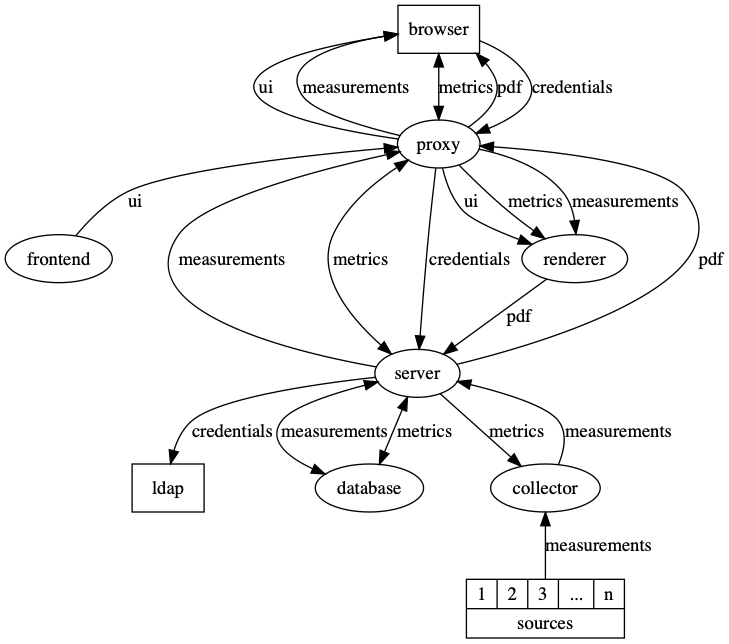
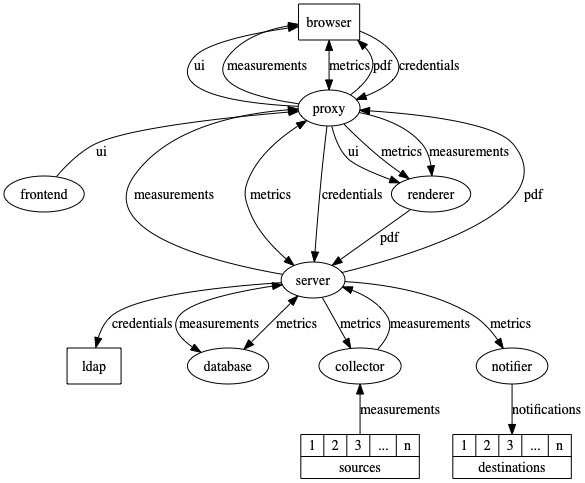
Add notifier to DEVELOP.md.

Changed region(s): [[0.0923, 0.0, 1.0, 0.9938], [0.0, 0.3416, 0.1538, 0.4658], [0.1231, 0.2795, 0.2154, 0.3416]]

diff --git a/docs/DEVELOP.md b/docs/DEVELOP.md
@@ -12,7 +12,11 @@
 
 ### Running *Quality-time* locally
 
-Follow these instructions to run the software in hot-reload mode for easy development. Prerequisites are Python 3.8 and a recent version of Node.js (we test with the Long Term Support version of Node).
+Follow these instructions to run the software in hot-reload mode for easy development. 
+
+#### Install prerequisites
+
+Prerequisites are Docker, Git, Python 3.8, a recent version of Node.js (we test with the Long Term Support version of Node).
 
 Clone this repository:
 
@@ -20,7 +24,9 @@ Clone this repository:
 git clone git@github.com:ICTU/quality-time.git
 ```
 
-Open four terminals. In the first one, run the standard containers with docker-compose:
+#### Start standard components
+
+Open a terminal and start the standard containers with docker-compose:
 
 ```console
 docker-compose up database ldap phpldapadmin mongo-express testdata
@@ -30,7 +36,15 @@ Mongo-express is served at [http://localhost:8081](http://localhost:8081) and ca
 
 PHP-LDAP-admin is served at [http://localhost:3890](http://localhost:3890) and can be used to inspect and edit the LDAP database. Click login, check the "Anonymous" box and click "Authenticate" to login.
 
-In the second terminal, run the server:
+By default, there are three users defined in the LDAP database:
+
+- User `admin` has password `admin`.
+- User `Jane Doe` has user id `jadoe` and password `secret`.
+- User `John Doe` has user id `jodoe` and password `secret`.
+
+#### Start the server
+
+Open another terminal and run the server:
 
 ```console
 cd components/server
@@ -40,7 +54,11 @@ pip install -r requirements.txt -r requirements-dev.txt
 python src/quality_time_server.py
 ```
 
-In the third terminal, run the collector:
+The API of the server is served at [http://localhost:5001](http://localhost:5001), e.g. access [http://localhost:5001/api/v3/reports](http://localhost:5001/api/v3/reports) to get the available reports combined with their recent measurements.
+
+#### Start the collector
+
+Open another terminal and run the collector:
 
 ```console
 cd components/collector
@@ -50,7 +68,9 @@ pip install -r requirements.txt -r requirements-dev.txt
 python src/quality_time_collector.py
 ```
 
-In the fourth terminal, run the frontend:
+#### Start the frontend
+
+Open another terminal and run the frontend:
 
 ```console
 cd components/frontend
@@ -60,11 +80,17 @@ npm run start
 
 The frontend is served at [http://localhost:3000](http://localhost:3000).
 
-By default, there are three users defined in the LDAP database:
+#### Start the notifier
 
-- User `admin` has password `admin`.
-- User `Jane Doe` has user id `jadoe` and password `secret`.
-- User `John Doe` has user id `jodoe` and password `secret`.
+Optionally, open yet another terminal and run the notifier:
+
+```console
+cd components/notifier
+python3 -m venv venv
+. venv/bin/activate
+pip install -r requirements.txt -r requirements-dev.txt
+python src/quality_time_notifier.py
+```
 
 ### Coding style
 
@@ -91,7 +117,7 @@ Production code and unit tests are organized together in one `src` folder hierar
 To run the unit tests and measure unit test coverage of the backend components:
 
 ```console
-cd components/server  # or components/collector
+cd components/server  # or components/collector, or components/notifier
 ci/unittest.sh
 ```
 
@@ -107,13 +133,13 @@ npm run test
 To run mypy, pylint, and some other security and quality checks on the backend components:
 
 ```console
-cd components/server  # or components/collector
+cd components/server  # or components/collector, or components/notifier
 ci/quality.sh
 ```
 
 ### Integration tests
 
-To run the integration tests (these currently test all components except the frontend and the collector), start the following components and then run the feature tests:
+To run the integration tests (these currently test all components except the frontend, the collector, and the notifier), start the following components and then run the feature tests:
 
 ```console
 docker-compose up -d ldap database renderer www frontend server  # And optionally mongo-express
@@ -139,19 +165,20 @@ See [Release README](../ci/README.md).
 
 ![Components](components.png)
 
-*Quality-time* consists of six components. Three standard components:
+*Quality-time* consists of seven components. Three standard components:
 
 - A proxy (we use the [ICTU variant of Caddy](https://github.com/ICTU/caddy), but this can be replaced by another proxy if so desired) routing traffic from and to the user's browser,
 - A database ([Mongo](https://www.mongodb.com)) for storing reports and measurements,
 - A renderer (we use the [ICTU variant of url-to-pdf-api](https://github.com/ICTU/url-to-pdf-api) to export reports to PDF,
 
-And three bespoke components:
+And four bespoke components:
 
 - A [frontend](../components/frontend/README.md) serving the React UI,
 - A [server](../components/server/README.md) serving the API,
 - A [collector](../components/collector/README.md) to collect the measurements from the sources.
+- A [notifier](../components/notifier/README.md) to notify users about events such as metrics turning red.
 
-In addition, an LDAP server is expected to be available to authenticate users.
+In addition, unless forward authentication is used, an LDAP server is expected to be available to authenticate users.
 
 For testing purposes there are also [test data](../components/testdata/README.md) and an [LDAP-server](../components/ldap/README.md).
 
@@ -228,22 +255,20 @@ To support [cloc](https://github.com/AlDanial/cloc) as source for the LOC (size)
 ```python
 """cloc metrics collector."""
 
-from typing import Tuple
-
-from collector_utilities.type import Entities, Responses, Value
 from base_collectors import JSONFileSourceCollector
+from source_model import SourceMeasurement, SourceResponses
 
 
 class ClocLOC(JSONFileSourceCollector):
     """cloc collector for size/lines of code."""
 
-    async def _parse_source_responses(self, responses: Responses) -> Tuple[Value, Value, Entities]:
+    async def _parse_source_responses(self, responses: SourceResponses) -> SourceMeasurement:
         loc = 0
         for response in responses:
             for key, value in (await response.json()).items():
                 if key not in ("header", "SUM"):
                     loc += value["code"]
-        return str(loc), "100", []
+        return SourceMeasurement(value=str(loc))
 ```
 
 Most collector classes are bit more complex than that, because to retrieve the data they have to deal with API's and while parsing the data they have to take parameters into account. See the collector source code for more examples.
@@ -270,7 +295,7 @@ class ClocTest(SourceCollectorTestCase):
         sources = dict(source_id=dict(type="cloc", parameters=dict(url="https://cloc.json")))
         metric = dict(type="loc", sources=sources, addition="sum")
         response = await self.collect(metric, get_request_json_return_value=cloc_json)
-        self.assert_measurement(response, value="90", total="100", entities=[])
+        self.assert_measurement(response, value="90", total="100")
 ```
 
 Note that the `ClocTest` class is a subclass of `SourceCollectorTestCase` which provides us with helper methods to make it easier to mock sources (`SourceCollectorTestCase.collect()`) and test results (`SourceCollectorTestCase.assert_measurement()`).
